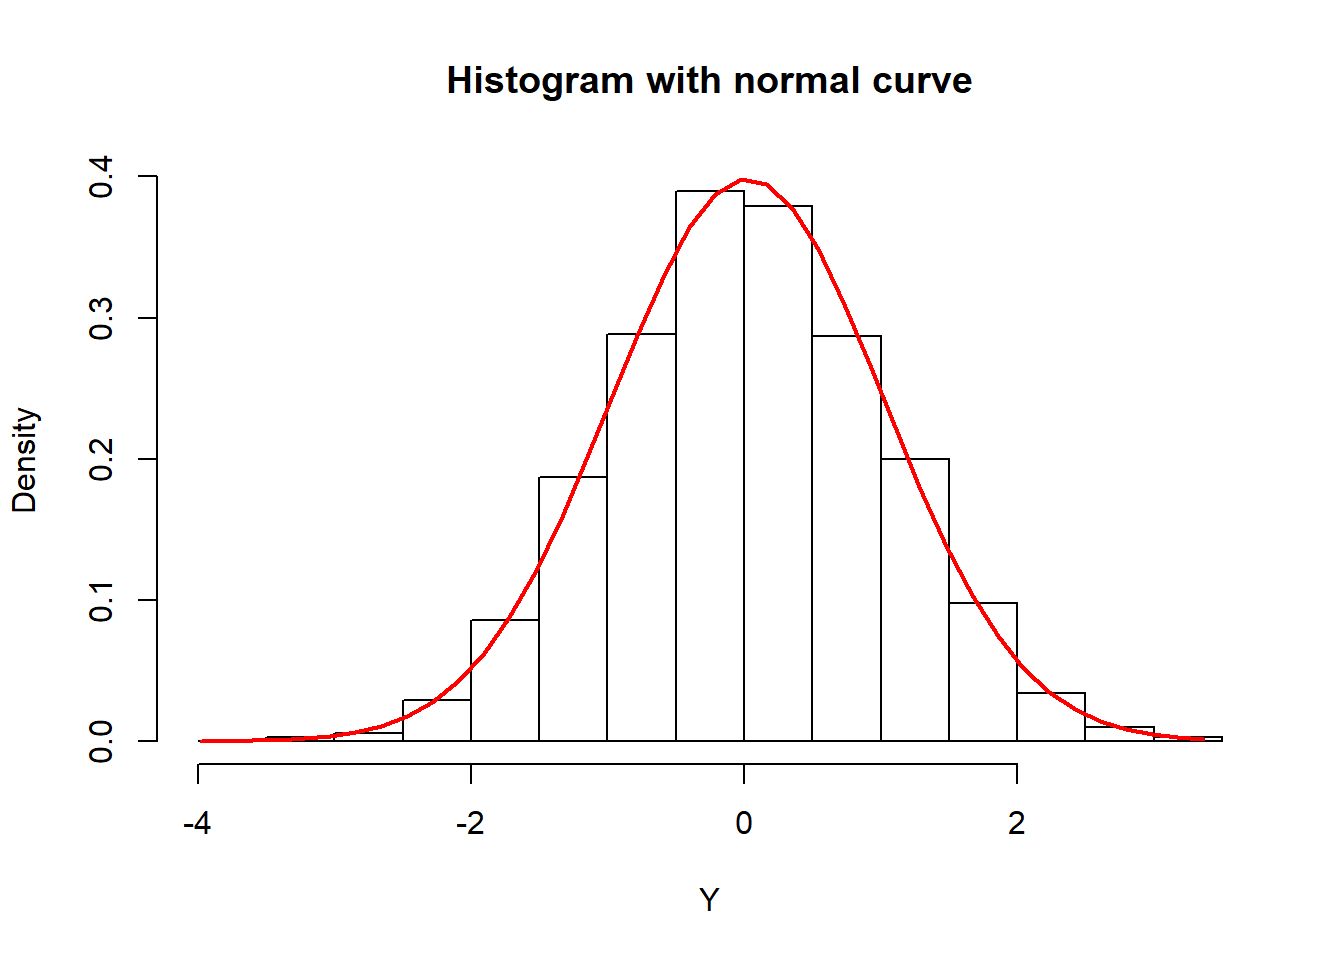
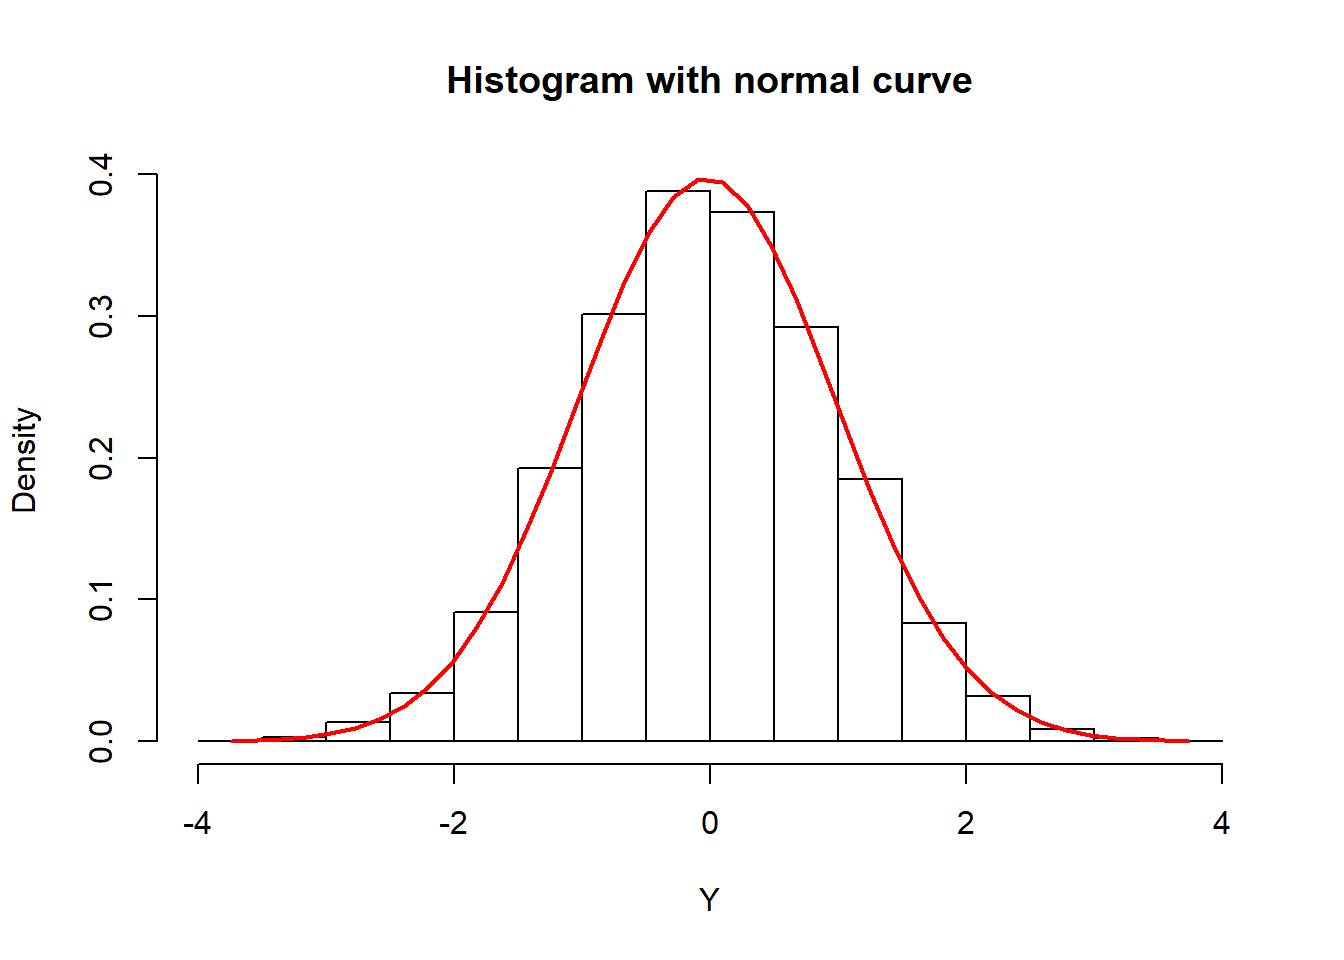
oui

diff --git a/practical3.html b/practical3.html
@@ -323,7 +323,7 @@ plot(AX,BX)</code></pre>
 <p><img src="practical3_files/figure-html/unnamed-chunk-1-1.png" width="672" /></p>
 <pre class="r"><code>cov(AX,BX)</code></pre>
 <pre><code>##              [,1]
-## [1,] -0.005147438</code></pre>
+## [1,] -0.005696654</code></pre>
 <p>We can deduce the independence between <span class="math inline">\(\mathbb{AX}\)</span> and <span class="math inline">\(\mathbb{BX}\)</span>.</p>
 <pre class="r"><code>Tab&lt;-cbind(AX,BX)
 plot(Tab[,1] ~ Tab[,2], pch = 21, bg = &quot;gray&quot;)
@@ -331,9 +331,7 @@ abline(lm(Tab[,1] ~ Tab[,2]), col = &quot;red&quot;, lwd = 2)</code></pre>
 <p><img src="practical3_files/figure-html/unnamed-chunk-2-1.png" width="672" /> <span class="math inline">\(\huge{Part \ 2 : the \ normal \ distribution \ of \ all \ marginals \ necessarily \ implies \ the \ joint \ normality \ of \ the \ whole \ random \ vector?}\)</span></p>
 <p>Random vector : <span class="math inline">\({X \sim\mathcal{N}(0,1)}\)</span></p>
 <p><span class="math inline">\({U \sim\mathcal{U}[0;1]}\)</span></p>
-${variable  Z  = {
-<span class="math display">\[\begin{matrix}-1 \:\: if \:\: u \in [0;0.5] \\1 \:\: elif\end{matrix}\]</span>
-<p>.} $</p>
+<p><span class="math inline">\({variable \ Z \ = \left\{\begin{matrix}-1 \:\: if \:\: u \in [0;0.5] \\1 \:\:elif\end{matrix}\right.}\)</span></p>
 <p><span class="math inline">\({We \ pose \ Y \ = ZX}\)</span></p>
 <p><span class="math inline">\(F_y(y)=P(Y\leq y)=P(ZX\leq y)=P(XZ\leq y |Z=1 )+P(XZ\leq y |Z=-1 )\)</span></p>
 <p><span class="math inline">\(F_y(y)=P(X\leq y |Z=1 )+P(-X\leq y |Z=-1 )\)</span></p>
@@ -352,7 +350,7 @@ shapiro.test(Y) # normal ok</code></pre>
 ##  Shapiro-Wilk normality test
 ## 
 ## data:  Y
-## W = 0.99959, p-value = 0.3859</code></pre>
+## W = 0.99982, p-value = 0.97</code></pre>
 <p>The Shapiro–Wilk test is a test of normality in frequentist statistics. It was published in 1965 by Samuel Sanford Shapiro and Martin Wilk.</p>
 <p><span class="math inline">\(H_0 : Y\sim\mathcal{N}(a,b) \ \ \ H_1 : Y \not\sim\mathcal{N}(a,b)\)</span></p>
 <p>We can’t rejected <span class="math inline">\(H_0\)</span> , <span class="math inline">\(Y\sim\mathcal{N}(a,b)\)</span></p>
@@ -370,9 +368,9 @@ hist(Y, prob = TRUE, col = &quot;white&quot;,
 lines(Y2, funY, col = 2, lwd = 2) </code></pre>
 <p><img src="practical3_files/figure-html/unnamed-chunk-4-1.png" width="672" /></p>
 <pre class="r"><code>mean(Y)</code></pre>
-<pre><code>## [1] 0.02297456</code></pre>
+<pre><code>## [1] -0.02686108</code></pre>
 <pre class="r"><code>sd(Y)</code></pre>
-<pre><code>## [1] 1.001517</code></pre>
+<pre><code>## [1] 1.004555</code></pre>
 <p><span class="math inline">\(Y\sim\mathcal{N}(0,1)\)</span></p>
 <p>Definition :</p>
 <p>That is <span class="math inline">\(U = (u_1....u_d) \ and \ \forall i \ : u_i \sim \mathcal{N}(a,b)\)</span></p>
@@ -407,7 +405,8 @@ lines(XY2, funXY, col = 2, lwd = 2) </code></pre>
 ##  Shapiro-Wilk normality test
 ## 
 ## data:  X + Y
-## W = 0.86205, p-value &lt; 2.2e-16</code></pre>
+## W = 0.85947, p-value &lt; 2.2e-16</code></pre>
+<p>In view of p-values we can conclude the none the joint normality with normal distribution of all marginals.</p>
 
 
 
